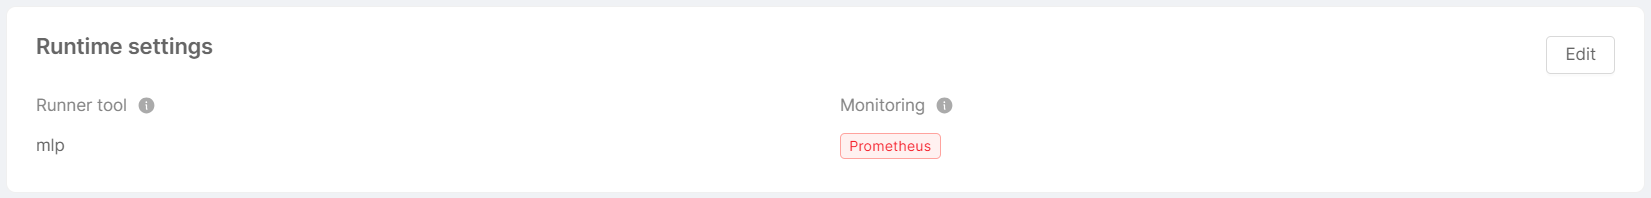
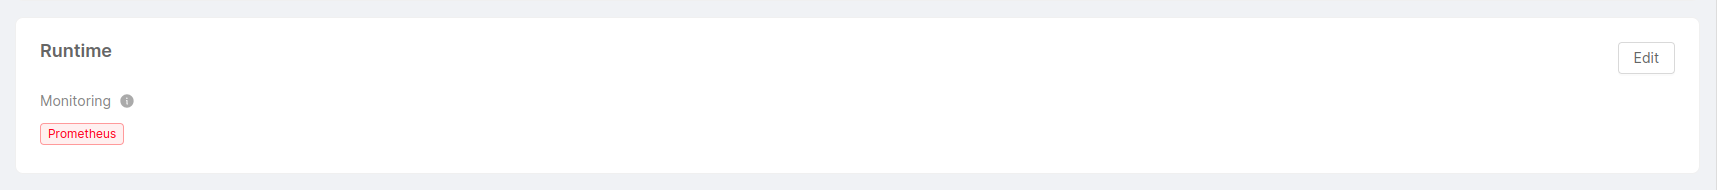
workflow type in project settings and enhanced workflow page update (#765)
* (wip): start updating project settings

* add workflow migration section with screenshots

* add screenshots

* update the enhanced workflow page

* fix spelling

* Apply suggestions from code review

* wrap feature toggle explanation in info

* Update docs/console/project-configuration/project-settings.md

* removed internal private beta info

* Project creation with new workflow activated at Instance Level

---------

diff --git a/docs/development_suite/set-up-infrastructure/enhanced-project-workflow.md b/docs/development_suite/set-up-infrastructure/enhanced-project-workflow.md
@@ -9,8 +9,6 @@ import TabItem from "@theme/TabItem"
 
 :::caution
 This is a **BETA** feature and, as such, is currently under active development. Pay attention using it.
-
-The feature is available in **INTERNAL PRIVATE BETA** since Mia-Platform Console v11.6.0, if you want to enable it please contact your Mia-Platform referent.
 :::
 
 The **Enhanced Project Workflow** feature aims to provide a better developer experience when working with the Console, as well as pave the way for the adoption of previously unavailable opportunities, such as the [GitOps deployment strategy](/development_suite/deploy/gitops-based/index.md).
@@ -71,7 +69,7 @@ The following features are still in development and will be available in future 
 As of today, some **Project customizations** can be performed only through the backoffice:
 
 - The repository default branch can be changed by updating the `repository.configurationBranch` property.
-- The Project deploy strategy (useful to configure whether your Project is supposed to use a [Pipeline-based](/development_suite/deploy/pipeline-based/index.md) or [GitOps-based](/development_suite/deploy/gitops-based/index.md) deployment approach) can be found in the `deploy.strategy` field for the global configuration that is inherited by all environments; to add environment specific settings you can patch the `environments[_].deploy.strategy`.
+- The setting of environment-specific deployment strategies can be configured by patching the `environments[_].deploy.strategy` property of the Project. At Project level (inherited by all Project environments), it can already be configured in the Project Settings page.
 
 In the future, these properties will be managed in the Console, inside the [Project Settings](/console/project-configuration/project-settings.md) page.
 
@@ -83,31 +81,28 @@ With this feature Users will be able to not only review the configurations but a
 
 With the first release of this new Workflow, existing Projects will require a migration operation to be performed. With this improvement we ought to provide further assistance in the migration process to make it as easy and smooth as possible.
 
-## Activating the feature
+## Activating the feature on new Projects
+
+The Enhanced Project Workflow can be activated by the user on new Projects enabling the relative switch in the Project workflow card following the [project creation process](/console/project-configuration/create-a-project.mdx#creation-process).
 
 :::info
-In order to activate the feature on a Project or Company, please open a service request and ask for the support of a Mia-Platform referent.
+If you want to ensure that all Projects in your Company adopt the Enhanced Workflow, you can open a service request and ask for the support of a Mia-Platform referent in order to enable the `ENABLE_CONF_GENERATION_ON_DEPLOY` feature toggle at Company level. The activation of this feature on the Company level disallows also to create new project without the Enhanced Workflow.
+
+In the end of the Project creation process, if the Enhanced Workflow option has been selected, the result is the activation of the `ENABLE_CONF_GENERATION_ON_DEPLOY` feature toggle at Project level.
+
+:::info
+If you want to activate the Enhanced Workflow on an already existing Project, follow the guide in the next section instead.
 :::
 
-The Enhanced Project Workflow can be activated by enabling two different feature toggles. This operation can be performed by your Mia-Platform referent, who will choose the option that most fits your needs. 
+## Migrating your Projects
 
-The `ENABLE_CONF_GENERATION_ON_DEPLOY` feature toggle activates the new versioning system and the generation of Kubernetes configurations at the time of deployment. It can be enabled for a single Project or for an entire Company, which means all projects in the Company, old and new ones, will adopt the new workflow.
+The migration process for an existing Project can be performed in the [Enhanced Workflow card](/console/project-configuration/project-settings.md#enhanced-workflow) in the Advanced section of the Project Settings page. Confirming the action in the dedicated modal will result in the activation of the `ENABLE_CONF_GENERATION_ON_DEPLOY` feature toggle for the Project.
 
-If you already have a Company with some projects, and you do not wish to migrate them to the new approach just yet, you can choose the `ENABLE_CREATE_PROJECT_WITH_SAVE_CONFIG_ON_DEPLOY` feature toggle, to be activated on the Company. This feature toggle makes sure that all new projects in the Company will be created with the new workflow, while leaving the existing ones untouched. 
-
-:::note
-If both feature toggles are enabled, `ENABLE_CONF_GENERATION_ON_DEPLOY` will prevail.
-:::
-
-## Migrating your projects
-
-The migration process for an existing Project is currently completely manual and impacts several entities.  
-The process can be summarized with the following steps:
+In order for the migration to succeed, though, there are some manual adjustments that need to be performed, which can be summarized with the following steps:
 
  - Git repository structure clean-up
  - Feature activation
  - Default revision setup and adjustment of a few Project Settings
-
 
 ### Git Repository adjustments
 
@@ -206,12 +201,7 @@ Here is a list of the files and directories that can be  deleted:
   - `variables`
   - `overlays/:env/variables.env`
 
-
-### Feature Activation
-
-To activate the feature, follow the instructions in the [dedicated section](#activating-the-feature). If you wish to activate the feature on a single Project, proceed with enabling the `ENABLE_CONF_GENERATION_ON_DEPLOY` feature toggle on the specific Project rather than on the whole Company.
-
-### Project Settings configuration
+### Default revision configuration
 
 After activating the Feature, ensure to configure the new **default revision** field from the [Project Settings](/console/project-configuration/project-settings.md) selecting one of the already existing branches (namely Revisions).
 
@@ -222,8 +212,4 @@ This revision will be an empty configuration if no other `main` branch was previ
 
 ## Pull-based deployment strategy
 
-If you want the Project to use a [**pull-based deployment strategy**](/development_suite/deploy/gitops-based/index.md#advantages-of-pull-based-deployment), its configuration must contain the `strategy` property set to `pull` (the value for push-based deployments is `push`). Based on the selected strategy, the `runnerTool` may take different values. 
-
-:::note
-For now, the deployment strategy can only be set from the backoffice. Please ask the support of your Mia-Platform referent to change it.
-:::
+If you want the Project to use a [**pull-based deployment strategy**](/development_suite/deploy/gitops-based/index.md#advantages-of-pull-based-deployment), you can select it in the [Deployment options card](/console/project-configuration/project-settings.md#deployment-options) in the Workload & Runtime section of the Project Settings page.

diff --git a/docs/console/project-configuration/project-settings.md b/docs/console/project-configuration/project-settings.md
@@ -46,7 +46,7 @@ This card presents an overview of which Git Provider, Secret Manager, and CI/CD 
 
 ## Workload & Runtime
 
-The "Workload & Runtime" tab shows information about the Project workload and runtime through 4 cards: "Microservices", "Image Pull Secret", "Runtime Settings", and "Security Features".
+The "Workload & Runtime" tab shows information about the Project workload and runtime through 5 cards: "Microservices", "Image Pull Secret", "Deployment options", "Runtime", and "Security Features".
 
 ### Microservices
 
@@ -68,13 +68,42 @@ An imagePullSecret is a Kubernetes entity used to authenticate and authorize acc
 
 This card shows the user, in the form of a table, the list of names that will be used in deployment and cronjob files for pulling Docker images. The user has the option of adding new names through the "Add image pull secret" button, which will open a simple modal asking for the secret name. Similarly, a secret can be edited and deleted using the appropriate icons at the respective row in the table.
 
-### Runtime settings
+### Deployment options
+
+This card allows users to manage some options regarding the Project deployment.
+
+![runtime settings](./img/settings-deployment-options.png)
+
+- **Deployment strategy**: specifies whether the Project deployment follows a [GitOps-based approach](/development_suite/deploy/gitops-based/index.md) or a [pipeline-based approach](/development_suite/deploy/pipeline-based/index.md).
+
+  :::info
+  The choice of the deployment strategy is only available on Projects with the [Enhanced Workflow](/development_suite/set-up-infrastructure/enhanced-project-workflow.md) enabled. Standard Projects only support a pipeline-based deployment strategy.
+  :::
+  
+    - In **Pull mode**, through a GitOps tool connection, Project configurations saved on the Git repository are always consistent with the Project’s Runtime configurations
+
+    - In **Push mode**, updates and changes to applications or configurations are initiated and directly pushed from a CI/CD pipeline to the target environment
+
+- **Pipeline runner**: specifies the command line deployment tool used by the Project. This option is not available for Projects that adopt a "Pull" deployment strategy, where no pipeline runner is needed. The chosen tool can either be [Mia-Platform LaunchPad (MLP)](https://github.com/mia-platform/mlp), or another custom tool. 
+
+The above information can be edited by clicking on the "Edit" button, which will open a modal where you can modify the Project deployment strategy and pipeline runner. Upon clicking "Save changes", the information will be updated.
+
+<div style={{display: 'flex', justifyContent: 'center'}}>
+  <div style={{display: 'flex', width: '700px'}}>
+
+![edit deployment options](./img/settings-edit-deployment-options.png)
+
+  </div>
+</div>
+
+
+### Runtime
+
+This card gives the user the ability to view and change some runtime settings. 
 
 ![runtime settings](./img/settings-runtime-settings.png)
 
-This card shows and gives the user the ability to change some runtime settings. Specifically:
-- **Runner Tool**: specifies the command line deployment tool used by the Project. Either one of "mlp" and "Other tool". In the case of mlp, it is required to have the [Smart Deploy](/development_suite/deploy/overview.md#smart-deploy) feature enabled;
-- **Monitoring**: tags specifying the different supported monitoring systems.
+Specifically, the **Monitoring** tags allow you to choose between the different supported monitoring systems.
 
 The above information can be edited by clicking on the "Edit" button, which will open the modal below. It will then be sufficient to edit the fields to be updated and click the "Save changes" button to implement the change.
 
@@ -125,8 +154,32 @@ This card presents an overview of the features in early access that can be activ
 
 ## Advanced
 
-The "Advanced" tab allows the user to visualize advanced information and perform sensitive operations, through a single card called "Advanced actions".
+The "Advanced" tab allows the user to visualize advanced information and perform sensitive operations.
 
-![advanced actions](./img/settings-advanced-actions.png)
+### Enhanced Workflow
+
+:::caution
+This is a **BETA** feature and, as such, is currently under active development. Please pay attention using it.
+:::
+
+If the Project has not been configured to use the [Enhanced Project Workflow](/development_suite/set-up-infrastructure/enhanced-project-workflow.md), users will see a card that illustrates the required steps to perform the migration.
+
+ ![Workflow migration card](./img/settings-workflow-migration-card.png)
+
+ There are some necessary [manual adjustments](/development_suite/set-up-infrastructure/enhanced-project-workflow.md#migrating-your-projects) to be made to ensure everything works fine after the migration is completed. The user will be asked to confirm that all steps have been addressed before continuing. 
+
+<div style={{display: 'flex', justifyContent: 'center'}}>
+  <div style={{display: 'flex', width: '700px'}}>
+
+![Workflow migration modal](./img/settings-workflow-migration-modal.png)
+
+  </div>
+</div>
+
+ Once the migration is complete, users can start working with the Enhanced Workflow.
+
+### Advanced actions
 
 The only action that can be taken at the moment is to delete the Project itself. You can find a detailed description of the deletion flow [here](/console/project-configuration/delete-a-project.md).
+
+![advanced actions](./img/settings-advanced-actions.png)

diff --git a/docs/development_suite/api-console/api-design/microservice-monitoring.md b/docs/development_suite/api-console/api-design/microservice-monitoring.md
@@ -7,7 +7,7 @@ In the Metrics card it is possible to configure in which path and how often the 
 
 ## Enable Metrics Card
 
-In order to visualize the Metrics card and be able to define a ServiceMonitor for your services you should set up the monitoring system in the [Runtime Settings](/console/project-configuration/project-settings.md#runtime-settings) cards found in the Project Settings section of the Console.
+In order to visualize the Metrics card and be able to define a ServiceMonitor for your services you should set up the monitoring system in the [Runtime](/console/project-configuration/project-settings.md#runtime) card found in the Project Settings section of the Console.
 
 If the section of the Console is not available you can set through the CMS, in your project settings, the `monitoring` property in the following way:
 
